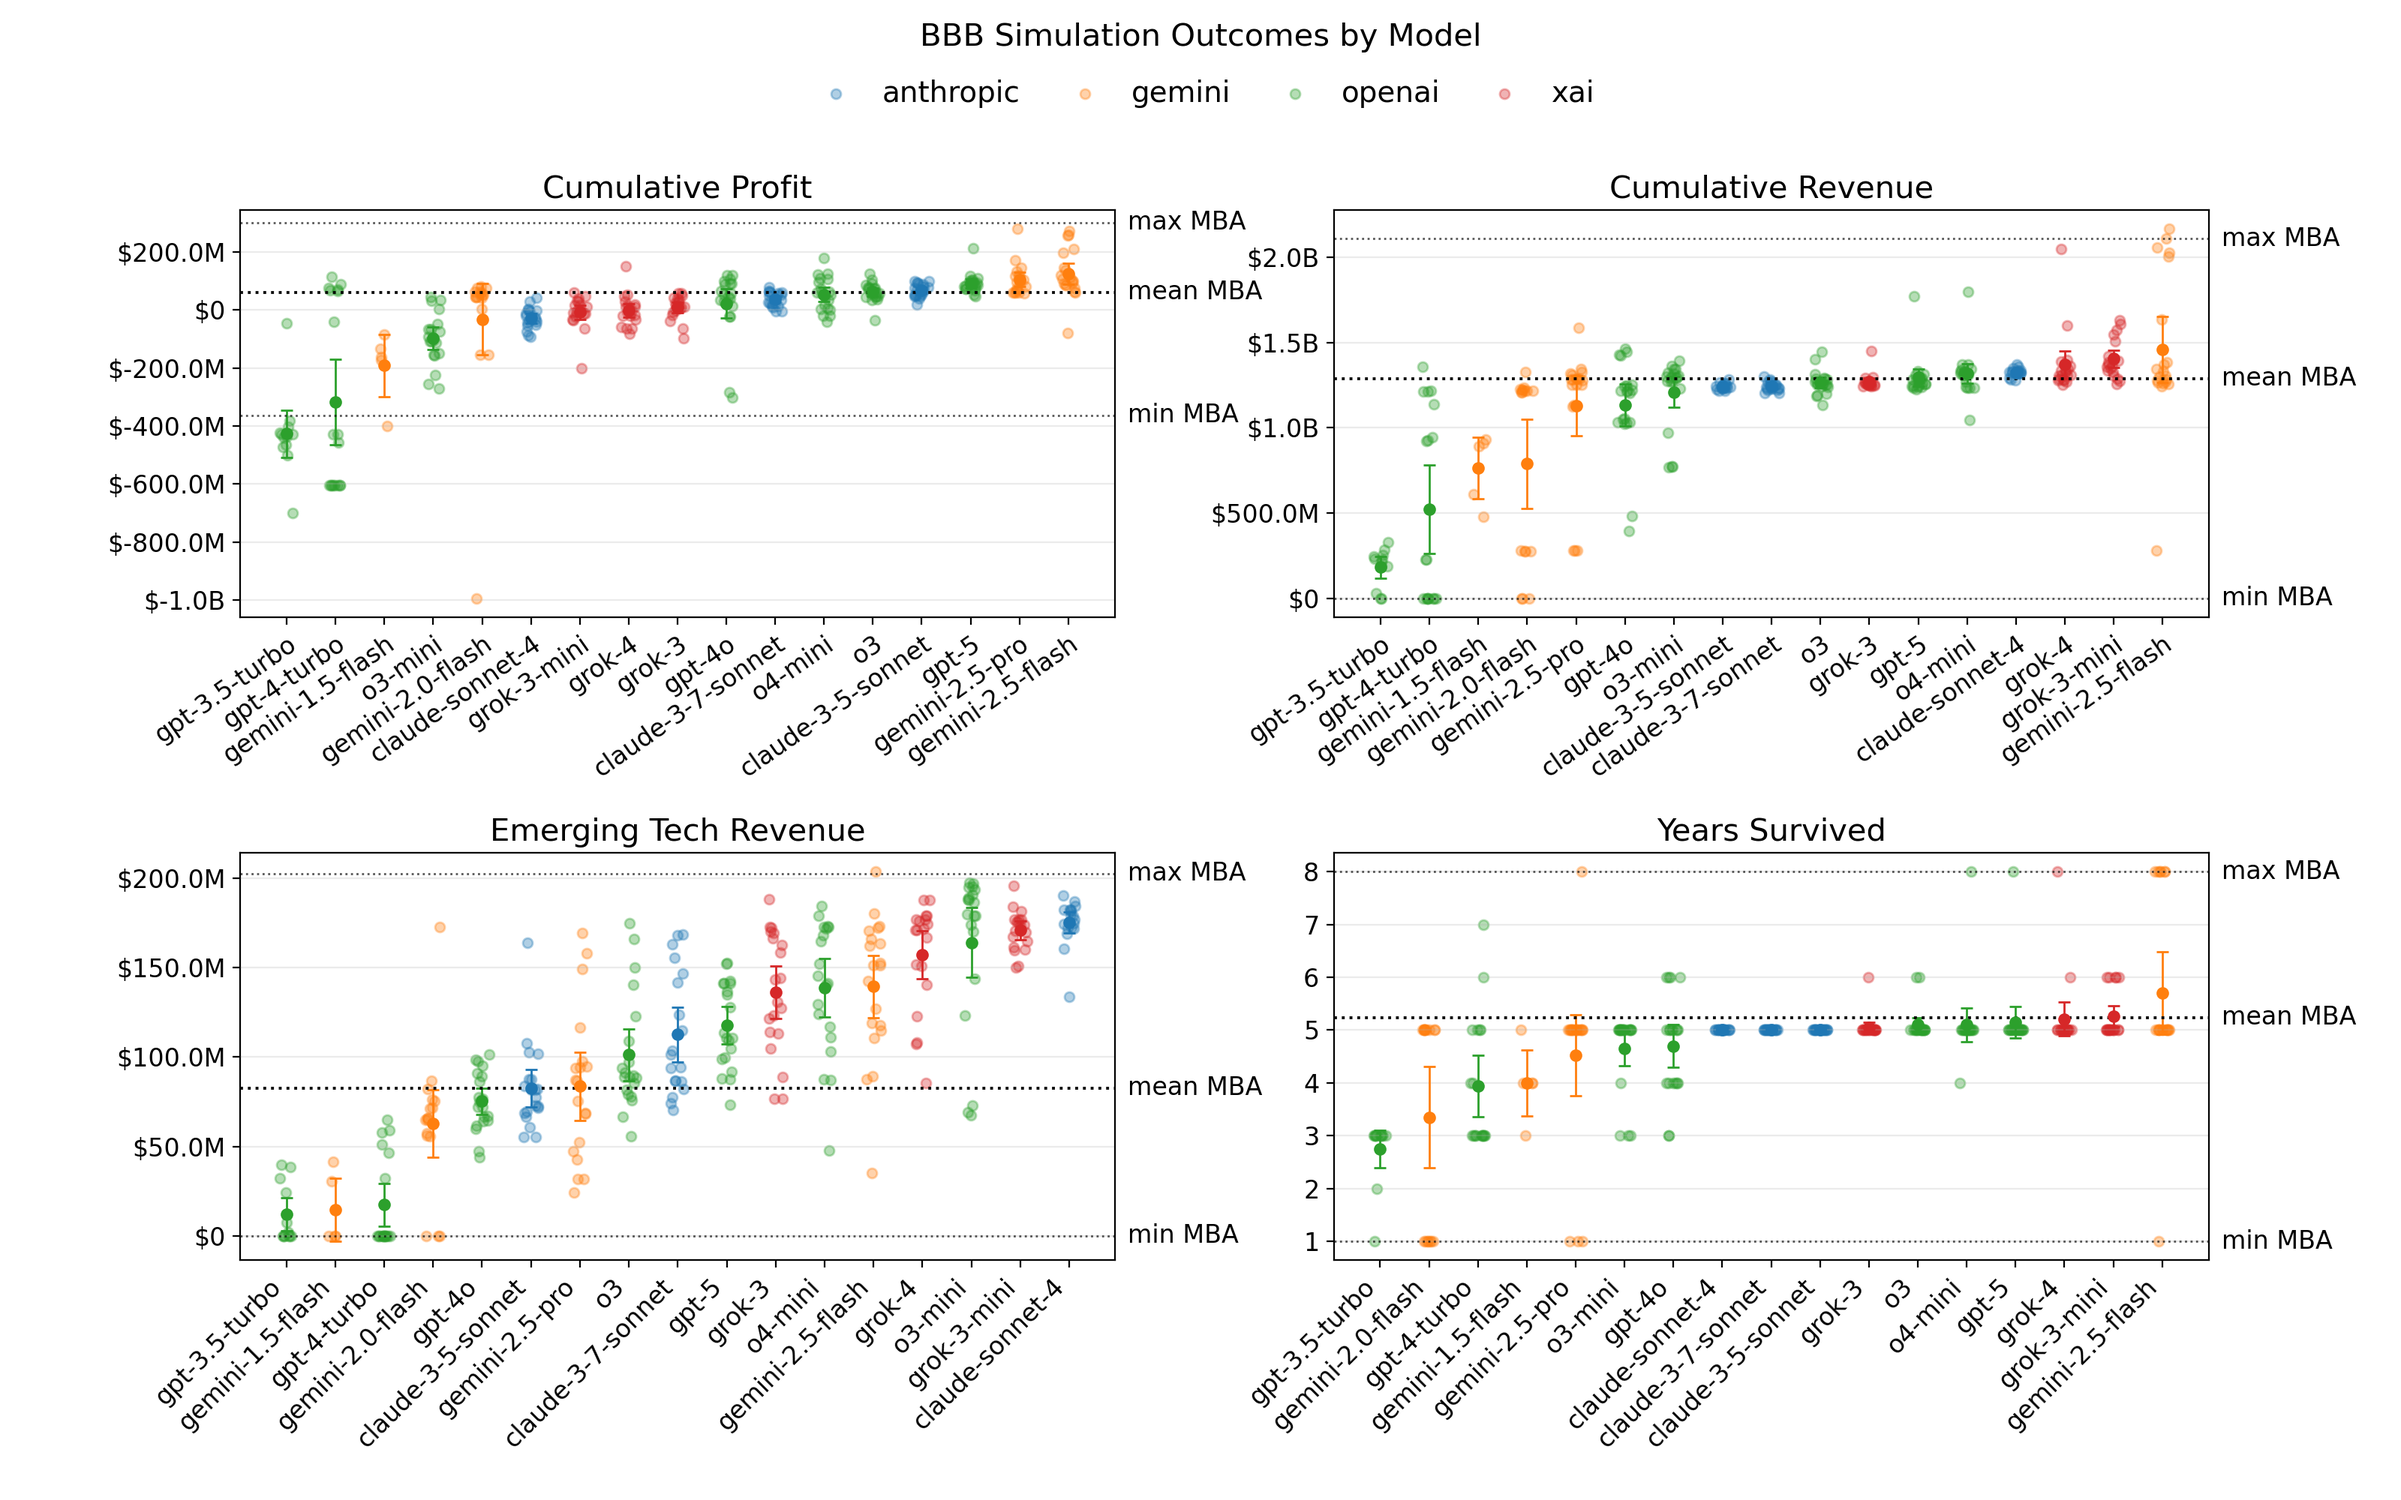
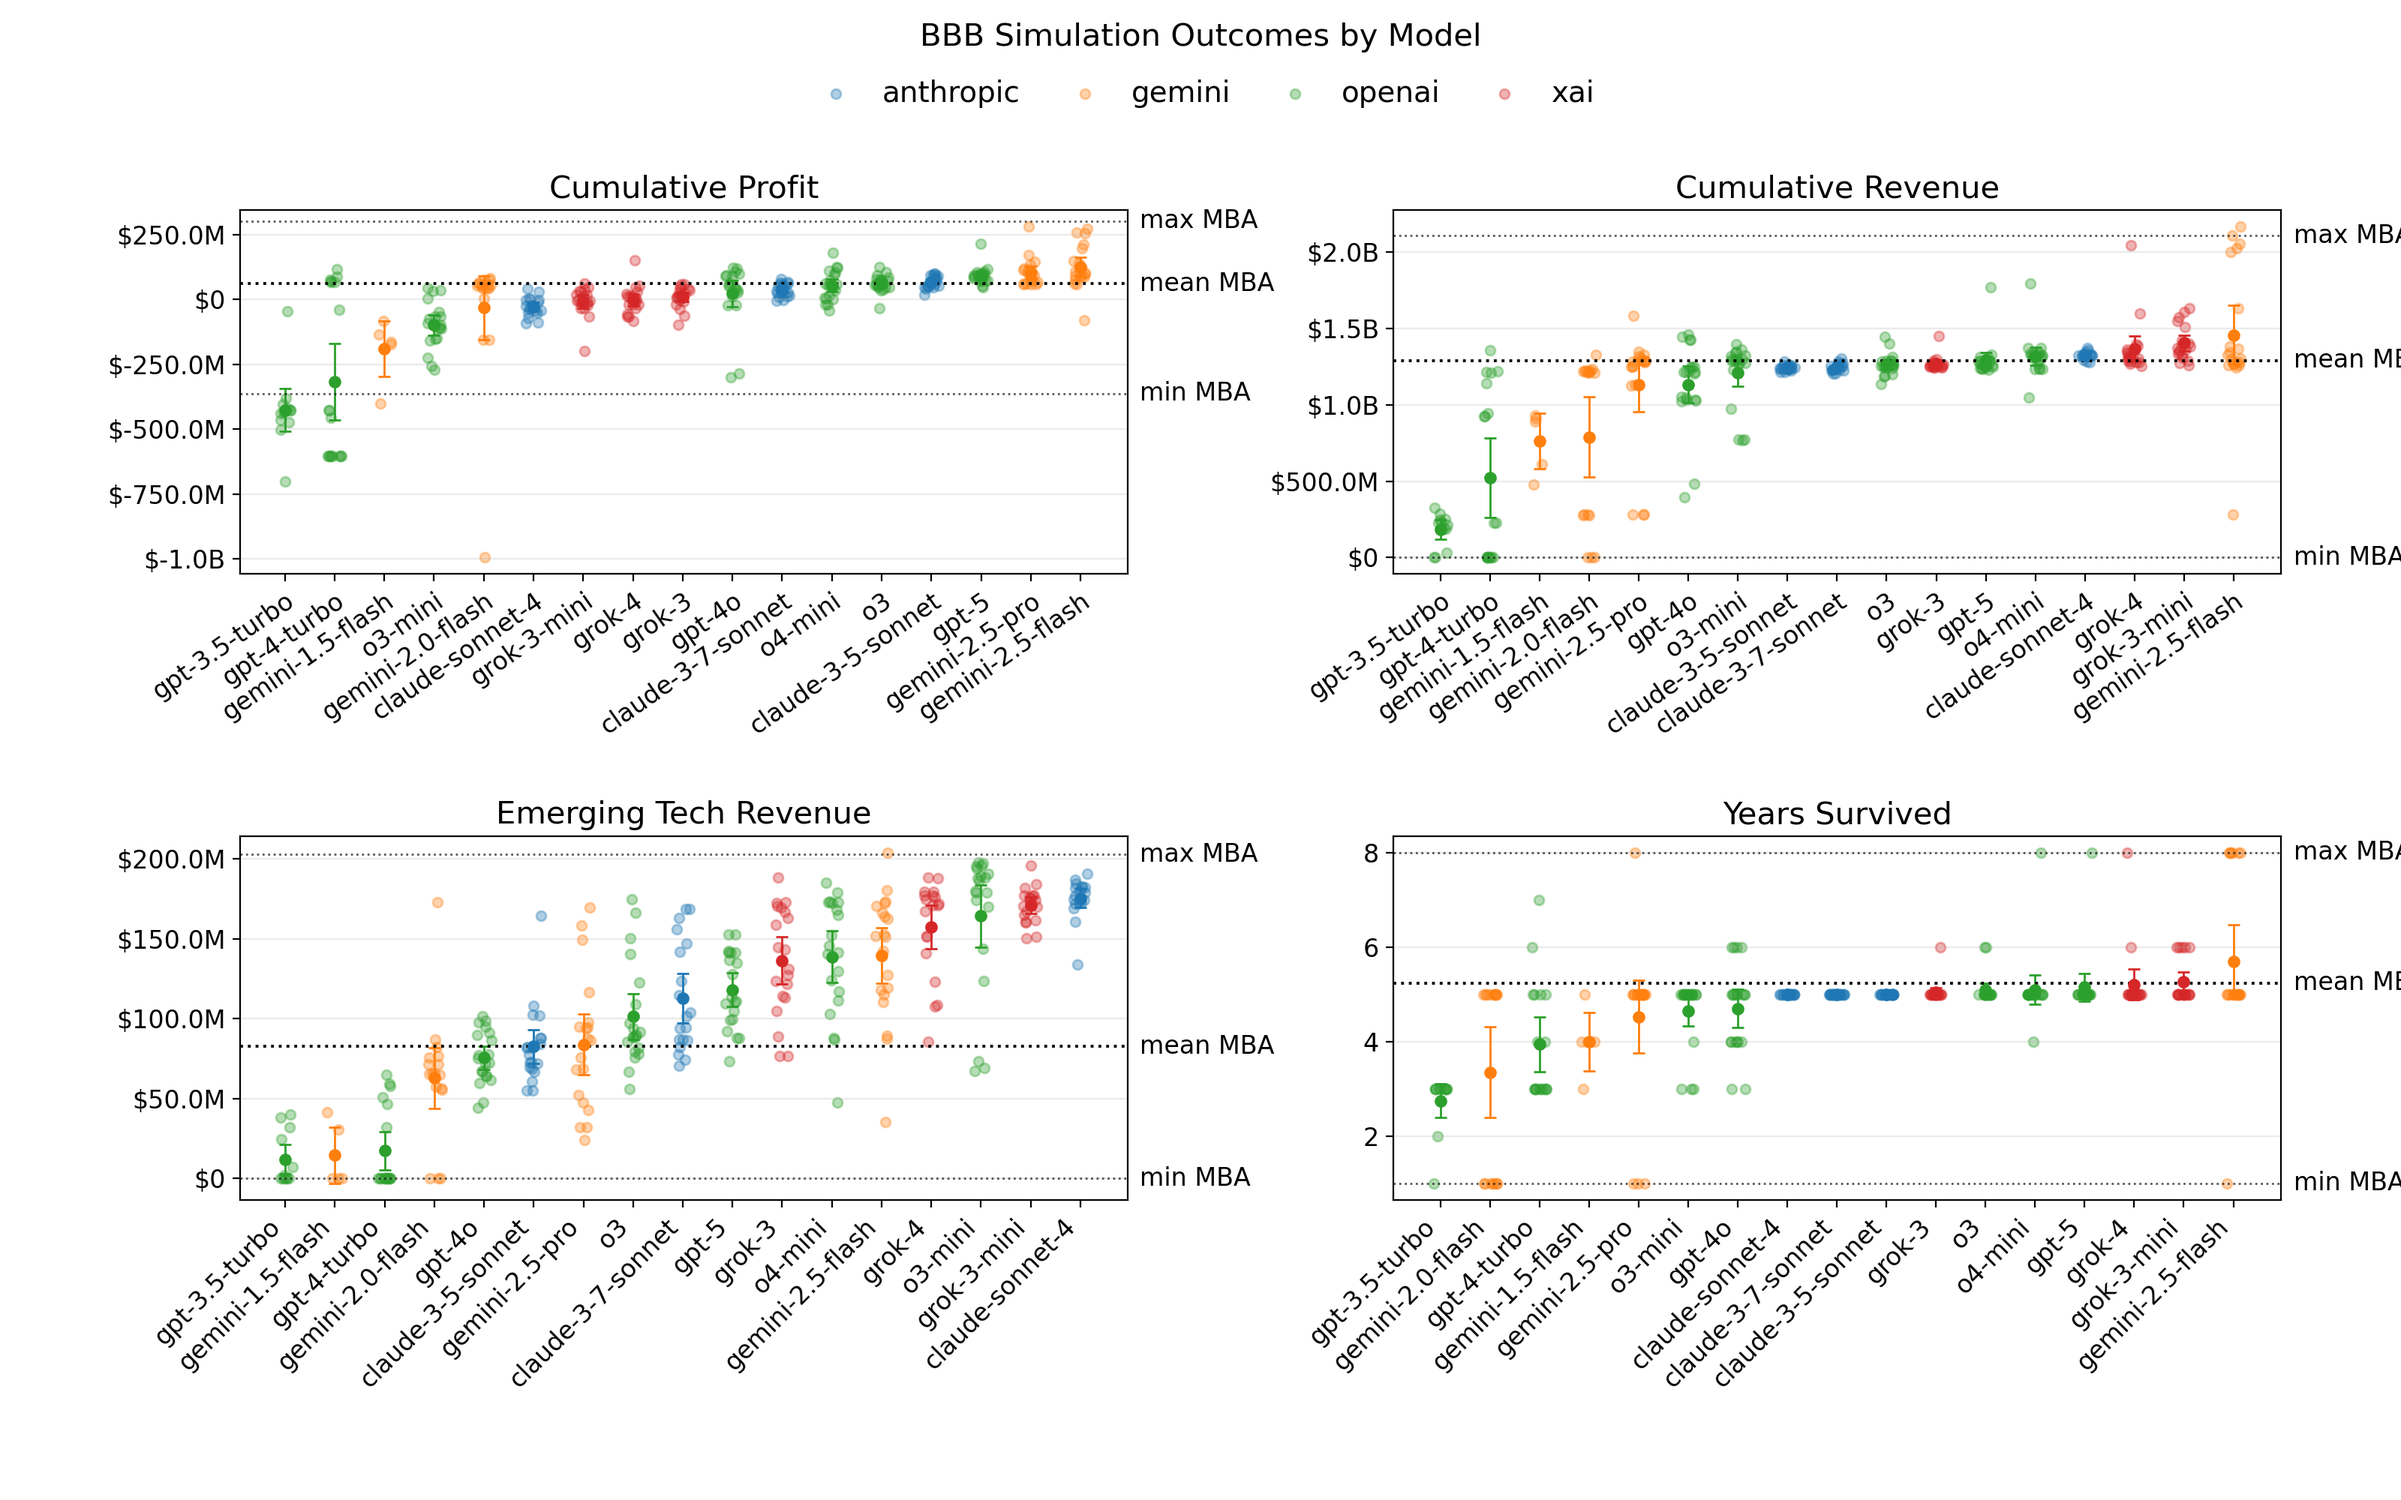
Fixed spacing issues on figures

diff --git a/analysis/plots.py b/analysis/plots.py
@@ -55,11 +55,11 @@ SUPTITLE_Y                 = 0.985
 LEGEND_Y                   = 0.955
 SUBPLOTS_TOP               = 0.86
 SUBPLOTS_LEFT              = 0.1
-SUBPLOTS_RIGHT             = 0.92
-SUBPLOTS_BOTTOM_COMPOSITE  = 0.25
-SUBPLOTS_BOTTOM_2X2        = 0.16
-GRID_HSPACE                = 0.58
-GRID_WSPACE                = 0.25
+SUBPLOTS_RIGHT             = 0.95
+SUBPLOTS_BOTTOM_COMPOSITE  = 0.3
+SUBPLOTS_BOTTOM_2X2        = 0.2
+GRID_HSPACE                = 0.72
+GRID_WSPACE                = 0.3
 
 TOP_ROW_XROT   = 35
 BOTTOM_ROW_XROT= 45
@@ -750,7 +750,7 @@ def plot_composite_vs_gpqa(df: pd.DataFrame, outpath: str):
         stats["mean"],
         stats["model_canon"].apply(short_model_label),
         x_bin=5,
-        y_step_pts=10,
+        y_step_pts=15,
         xpad_pts=6
     )
 
